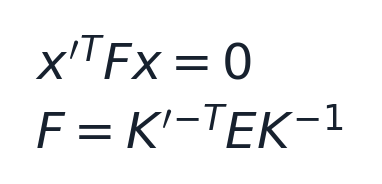
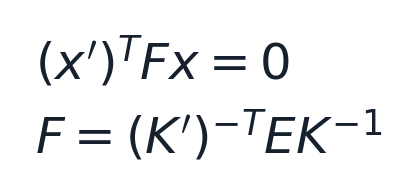
Fix study guide LaTeX compatibility and equation layout

Changed region(s): [[0.0864, 0.5435, 0.9215, 0.8152], [0.0864, 0.163, 0.6911, 0.4348]]

diff --git a/Study_Guide/CMSC_672_Exam_Study_Guide.html b/Study_Guide/CMSC_672_Exam_Study_Guide.html
@@ -390,7 +390,18 @@ blockquote p { margin: 0; }
 <p><strong>Remember — Sobel filter:</strong> It combines a small amount of smoothing with a directional derivative. This helps find edges without reacting as strongly to noise.</p>
 </blockquote>
 
-<img src="equations/display-05.png" alt="Equation: Box blur Small Gaussian approximation [1 1 1] [1 2 1] (1/9) [1 1 1] (1/16) [2 4 2] [1 1 1] [1 2 1] x-derivative / vertical edges y-derivative / horizontal edges [-1 0 1] [-1 -1 -1] [-1 0 1] [ 0 0 0] [-1 0 1] [ 1 1 1] Sobel x Sobel y [-1 0 1] [-1 -2 -1] [-2 0 2] [ 0 0 0] [-1 0 1] [ 1 2 1]" width="212">
+<p><strong>Box blur</strong></p>
+<p><img src="equations/filter-box.png" alt="Box blur kernel" width="117"></p>
+<p><strong>Small Gaussian approximation</strong></p>
+<p><img src="equations/filter-gaussian.png" alt="Small Gaussian approximation kernel" width="126"></p>
+<p><strong>x-derivative: vertical edges</strong></p>
+<p><img src="equations/filter-vertical-edges.png" alt="x-derivative: vertical edges kernel" width="118"></p>
+<p><strong>y-derivative: horizontal edges</strong></p>
+<p><img src="equations/filter-horizontal-edges.png" alt="y-derivative: horizontal edges kernel" width="152"></p>
+<p><strong>Sobel x</strong></p>
+<p><img src="equations/filter-sobel-x.png" alt="Sobel x kernel" width="118"></p>
+<p><strong>Sobel y</strong></p>
+<p><img src="equations/filter-sobel-y.png" alt="Sobel y kernel" width="152"></p>
 <p>An x derivative responds to intensity changes across the horizontal direction, so it detects <strong>vertical edges</strong>. An edge's tangent direction is perpendicular to the gradient.</p>
 <p><img src="graphics/03-sobel-edges.png" alt="Derivative filters detect changes in intensity" /></p>
 <p><em><a href="Slides/03_image-filtering-i.pdf">Lecture 3, PDF p. 116</a> — Derivative filters detect changes in intensity.</em></p>
@@ -1361,8 +1372,8 @@ blockquote p { margin: 0; }
 <p><strong>Remember — Homography versus epipolar matrix:</strong> A homography gives a matching point. An essential or fundamental matrix gives a line of possible matches.</p>
 </blockquote>
 
-<p>For normalized camera coordinates, <img src="equations/inline-ea0cd618b005.png" alt="x_hat&#x27;^T × E × x_hat = 0" width="93">. For pixel coordinates,</p>
-<img src="equations/display-41.png" alt="Equation: x&#x27;^T F x = 0 F = K&#x27;^(-T) E K^(-1)" width="153">
+<p>For normalized camera coordinates, <img src="equations/inline-ea0cd618b005.png" alt="x_hat&#x27;^T × E × x_hat = 0" width="108">. For pixel coordinates,</p>
+<img src="equations/display-41.png" alt="Equation: x&#x27;^T F x = 0 F = K&#x27;^(-T) E K^(-1)" width="168">
 <p>Then <img src="equations/inline-bdc6eb718a17.png" alt="l&#x27;=Fx" width="64"> is the corresponding line in image 2 and <img src="equations/inline-2df4381b65de.png" alt="l=F^Tx&#x27;" width="74"> is the line in image 1. A line <img src="equations/inline-7198e75af8a2.png" alt="l&#x27;=(a,b,c)^T" width="122"> contains points satisfying <img src="equations/inline-09f14c1ce06c.png" alt="au&#x27;+bv&#x27;+c=0" width="162">.</p>
 <table>
 <thead>
@@ -1416,7 +1427,7 @@ blockquote p { margin: 0; }
 <li>Build A from at least eight correspondences in a nondegenerate configuration.</li>
 <li>Solve <img src="equations/inline-f3497f64799e.png" alt="Af ≈ 0" width="62"> using SVD and reshape into a 3 × 3 estimate.</li>
 <li>Enforce rank 2 by replacing the smallest singular value of that matrix with zero.</li>
-<li>Undo coordinate normalization: if <img src="equations/inline-079d0e05a5a0.png" alt="x_n=Tx" width="74"> and <img src="equations/inline-10f8f9af2d03.png" alt="x&#x27;_n=T&#x27;x&#x27;" width="91">, then <img src="equations/inline-bae442bdfdd3.png" alt="F=T&#x27;^TF_nT" width="101">.</li>
+<li>Undo coordinate normalization: if <img src="equations/inline-079d0e05a5a0.png" alt="x_n=Tx" width="74"> and <img src="equations/inline-10f8f9af2d03.png" alt="x&#x27;_n=T&#x27;x&#x27;" width="91">, then <img src="equations/inline-bae442bdfdd3.png" alt="F=T&#x27;^TF_nT" width="117">.</li>
 <li>Use RANSAC to handle mismatches.</li>
 </ol>
 <p><strong>Why eight pairs if F has seven DoF?</strong> The linear solver treats 9 entries up to scale and uses eight linear constraints, then enforces rank 2. A different seven-point method exists; it is not the linear eight-point algorithm in the review.</p>
@@ -1757,9 +1768,9 @@ Intersection area / union area.</p>
 <p><strong>Camera center</strong><br />
 <img src="equations/inline-5ad00143c624.png" alt="PC_h=0" width="77">.</p>
 <p><strong>Epipolar constraint</strong><br />
-<img src="equations/inline-ea0cd618b005.png" alt="x_hat&#x27;^T × E × x_hat = 0" width="93">; <img src="equations/inline-4607431bba58.png" alt="x&#x27;^T × F × x = 0" width="92">.</p>
+<img src="equations/inline-ea0cd618b005.png" alt="x_hat&#x27;^T × E × x_hat = 0" width="108">; <img src="equations/inline-4607431bba58.png" alt="x&#x27;^T × F × x = 0" width="107">.</p>
 <p><strong>Intrinsics conversion</strong><br />
-<img src="equations/inline-3589a5a5f71f.png" alt="F = K&#x27;^(-T) × E × K^(-1)" width="129">.</p>
+<img src="equations/inline-3589a5a5f71f.png" alt="F = K&#x27;^(-T) × E × K^(-1)" width="144">.</p>
 <p><strong>Epipolar lines</strong><br />
 <img src="equations/inline-bdc6eb718a17.png" alt="l&#x27;=Fx" width="64">, <img src="equations/inline-2df4381b65de.png" alt="l=F^Tx&#x27;" width="74">.</p>
 <p><strong>Rectified stereo depth</strong><br />

diff --git a/Study_Guide/CMSC_672_Exam_Study_Guide.md b/Study_Guide/CMSC_672_Exam_Study_Guide.md
@@ -265,13 +265,40 @@ Correlation uses I(x+i,y+j) instead. Convolution flips the kernel in both spatia
 
 > **Remember — Sobel filter:** It combines a small amount of smoothing with a directional derivative. This helps find edges without reacting as strongly to noise.
 
+**Box blur**
+
 $$
-\mathrm{Box\ blur:}\quad\frac{1}{9}\begin{bmatrix}1&1&1\\1&1&1\\1&1&1\end{bmatrix}
-\mathrm{Gaussian:}\quad\frac{1}{16}\begin{bmatrix}1&2&1\\2&4&2\\1&2&1\end{bmatrix}
-\mathrm{Vertical\ edges:}\quad\begin{bmatrix}-1&0&1\\-1&0&1\\-1&0&1\end{bmatrix}
-\mathrm{Horizontal\ edges:}\quad\begin{bmatrix}-1&-1&-1\\0&0&0\\1&1&1\end{bmatrix}
-\mathrm{Sobel}\ x:\quad\begin{bmatrix}-1&0&1\\-2&0&2\\-1&0&1\end{bmatrix}
-\mathrm{Sobel}\ y:\quad\begin{bmatrix}-1&-2&-1\\0&0&0\\1&2&1\end{bmatrix}
+\frac{1}{9}\begin{bmatrix}1&1&1\\ 1&1&1\\ 1&1&1\end{bmatrix}
+$$
+
+**Small Gaussian approximation**
+
+$$
+\frac{1}{16}\begin{bmatrix}1&2&1\\ 2&4&2\\ 1&2&1\end{bmatrix}
+$$
+
+**x-derivative: vertical edges**
+
+$$
+\begin{bmatrix}-1&0&1\\ -1&0&1\\ -1&0&1\end{bmatrix}
+$$
+
+**y-derivative: horizontal edges**
+
+$$
+\begin{bmatrix}-1&-1&-1\\ 0&0&0\\ 1&1&1\end{bmatrix}
+$$
+
+**Sobel x**
+
+$$
+\begin{bmatrix}-1&0&1\\ -2&0&2\\ -1&0&1\end{bmatrix}
+$$
+
+**Sobel y**
+
+$$
+\begin{bmatrix}-1&-2&-1\\ 0&0&0\\ 1&2&1\end{bmatrix}
 $$
 
 An x derivative responds to intensity changes across the horizontal direction, so it detects **vertical edges**. An edge's tangent direction is perpendicular to the gradient.
@@ -295,7 +322,7 @@ Nearby pixels receive larger weights. Increasing $\sigma$ increases blur and rem
 **Worked patch:** For
 
 $$
-\begin{bmatrix}0&0&0\\0&90&0\\0&0&0\end{bmatrix}
+\begin{bmatrix}0&0&0\\ 0&90&0\\ 0&0&0\end{bmatrix}
 $$
 
 the box-filter output at the center is 10. The Gaussian approximation above gives $4(90)/16=22.5$, because it gives more weight to the center.
@@ -468,11 +495,11 @@ For small shifts, $I(x+u,y+v)\approx I(x,y)+I_xu+I_yv$. Therefore
 
 $$
 E(u,v)\approx\sum w(I_xu+I_yv)^2
-=\begin{bmatrix}u&v\end{bmatrix}M\begin{bmatrix}u\\v\end{bmatrix},
+=\begin{bmatrix}u&v\end{bmatrix}M\begin{bmatrix}u\\ v\end{bmatrix},
 $$
 
 $$
-M=\sum w\begin{bmatrix}I_x^2&I_xI_y\\I_xI_y&I_y^2\end{bmatrix}.
+M=\sum w\begin{bmatrix}I_x^2&I_xI_y\\ I_xI_y&I_y^2\end{bmatrix}.
 $$
 
 M is the second-moment/structure matrix. Do not substitute the image Hessian of second derivatives for it.
@@ -990,13 +1017,13 @@ Translation cannot be represented by a 2 × 2 linear matrix acting on (x,y) beca
 > **Remember — Rotate around a point:** Move that point to the origin, rotate, then move it back.
 
 $$
-T(t_x,t_y)=\begin{bmatrix}1&0&t_x\\0&1&t_y\\0&0&1\end{bmatrix},\quad
-S(s_x,s_y)=\begin{bmatrix}s_x&0&0\\0&s_y&0\\0&0&1\end{bmatrix},
+T(t_x,t_y)=\begin{bmatrix}1&0&t_x\\ 0&1&t_y\\ 0&0&1\end{bmatrix},\quad
+S(s_x,s_y)=\begin{bmatrix}s_x&0&0\\ 0&s_y&0\\ 0&0&1\end{bmatrix},
 $$
 
 $$
-R(\theta)=\begin{bmatrix}\cos\theta&-\sin\theta&0\\\sin\theta&\cos\theta&0\\0&0&1\end{bmatrix},\quad
-\mathrm{Shear}_x(a)=\begin{bmatrix}1&a&0\\0&1&0\\0&0&1\end{bmatrix}.
+R(\theta)=\begin{bmatrix}\cos\theta&-\sin\theta&0\\ \sin\theta&\cos\theta&0\\ 0&0&1\end{bmatrix},\quad
+\mathrm{Shear}_x(a)=\begin{bmatrix}1&a&0\\ 0&1&0\\ 0&0&1\end{bmatrix}.
 $$
 
 The rotation above is counterclockwise in mathematical coordinates with y increasing upward. Displayed image coordinates often increase downward, which changes the visual interpretation of the sign.
@@ -1071,7 +1098,7 @@ The denominator is essential. A 3 × 3 matrix has 9 entries but overall scale is
 For row-major $h=(h_{11},h_{12},h_{13},h_{21},h_{22},h_{23},h_{31},h_{32},h_{33})^T$, each pair contributes two DLT rows:
 
 $$
-\begin{bmatrix}x&y&1&0&0&0&-ux&-uy&-u\\0&0&0&x&y&1&-vx&-vy&-v\end{bmatrix}
+\begin{bmatrix}x&y&1&0&0&0&-ux&-uy&-u\\ 0&0&0&x&y&1&-vx&-vy&-v\end{bmatrix}
 $$
 
 Stack rows into A, solve $Ah\approx0$ with SVD and a norm constraint, and reshape h into H. Coordinate normalization improves conditioning. The map is rational in point coordinates, but cross-multiplication gives equations linear in the entries of H.
@@ -1144,7 +1171,7 @@ $$
 In Cartesian 3D coordinates, $X_c=R(X_w-C)=RX_w+t$. The intrinsic matrix is commonly
 
 $$
-K=\begin{bmatrix}f_x&s&c_x\\0&f_y&c_y\\0&0&1\end{bmatrix}.
+K=\begin{bmatrix}f_x&s&c_x\\ 0&f_y&c_y\\ 0&0&1\end{bmatrix}.
 $$
 
 - **Extrinsics:** R,t locate and orient the camera relative to a world frame. R is 3 × 3 and has 3 rotational DoF; t is 3 × 1.
@@ -1236,10 +1263,10 @@ The corresponding point in the second image must lie on the epipolar line. This 
 
 > **Remember — Homography versus epipolar matrix:** A homography gives a matching point. An essential or fundamental matrix gives a line of possible matches.
 
-For normalized camera coordinates, $\hat x'^TE\hat x=0$. For pixel coordinates,
+For normalized camera coordinates, $(\hat{x}')^TE\hat x=0$. For pixel coordinates,
 
 $$
-x'^TFx=0,\qquad F=K'^{-T}EK^{-1}.
+(x')^TFx=0,\qquad F=(K')^{-T}EK^{-1}.
 $$
 
 Then $l'=Fx$ is the corresponding line in image 2 and $l=F^Tx'$ is the line in image 1. A line $l'=(a,b,c)^T$ contains points satisfying $au'+bv'+c=0$.
@@ -1273,7 +1300,7 @@ $$
 2. Build A from at least eight correspondences in a nondegenerate configuration.
 3. Solve $Af\approx0$ using SVD and reshape into a 3 × 3 estimate.
 4. Enforce rank 2 by replacing the smallest singular value of that matrix with zero.
-5. Undo coordinate normalization: if $x_n=Tx$ and $x'_n=T'x'$, then $F=T'^TF_nT$.
+5. Undo coordinate normalization: if $x_n=Tx$ and $x'_n=T'x'$, then $F=(T')^TF_nT$.
 6. Use RANSAC to handle mismatches.
 
 **Why eight pairs if F has seven DoF?** The linear solver treats 9 entries up to scale and uses eight linear constraints, then enforces rank 2. A different seven-point method exists; it is not the linear eight-point algorithm in the review.
@@ -1423,15 +1450,15 @@ There is one equation for two unknowns. Along a straight edge, motion parallel t
 Assume neighboring pixels have the same displacement (u,v). Stack their equations:
 
 $$
-A\begin{bmatrix}u\\v\end{bmatrix}=b,\qquad
-A=\begin{bmatrix}I_x(p_1)&I_y(p_1)\\\vdots&\vdots\\I_x(p_n)&I_y(p_n)\end{bmatrix},\quad
-b=-\begin{bmatrix}I_t(p_1)\\\vdots\\I_t(p_n)\end{bmatrix}.
+A\begin{bmatrix}u\\ v\end{bmatrix}=b,\qquad
+A=\begin{bmatrix}I_x(p_1)&I_y(p_1)\\ \vdots&\vdots\\ I_x(p_n)&I_y(p_n)\end{bmatrix},\quad
+b=-\begin{bmatrix}I_t(p_1)\\ \vdots\\ I_t(p_n)\end{bmatrix}.
 $$
 
 Then solve least squares. The normal matrix is
 
 $$
-A^TA=\begin{bmatrix}\sum I_x^2&\sum I_xI_y\\\sum I_xI_y&\sum I_y^2\end{bmatrix}.
+A^TA=\begin{bmatrix}\sum I_x^2&\sum I_xI_y\\ \sum I_xI_y&\sum I_y^2\end{bmatrix}.
 $$
 
 ![Neighboring brightness-constancy constraints form a least-squares motion estimate](graphics/17-optical-flow.png)
@@ -1642,10 +1669,10 @@ $x\sim K[R\mid t]X$, t = -RC.
 $PC_h=0$.
 
 **Epipolar constraint**  
-$\hat x'^TE\hat x=0$; $x'^TFx=0$.
+$(\hat{x}')^TE\hat x=0$; $(x')^TFx=0$.
 
 **Intrinsics conversion**  
-$F=K'^{-T}EK^{-1}$.
+$F=(K')^{-T}EK^{-1}$.
 
 **Epipolar lines**  
 $l'=Fx$, $l=F^Tx'$.
@@ -1725,7 +1752,7 @@ These are derived study explanations, **not an instructor-provided solution key*
 2. The diagram translates by $t_x=2,t_y=1$. With homogeneous column vectors:
 
 $$
-\begin{bmatrix}x'\\y'\\1\end{bmatrix}=\begin{bmatrix}1&0&2\\0&1&1\\0&0&1\end{bmatrix}\begin{bmatrix}x\\y\\1\end{bmatrix}.
+\begin{bmatrix}x'\\ y'\\ 1\end{bmatrix}=\begin{bmatrix}1&0&2\\ 0&1&1\\ 0&0&1\end{bmatrix}\begin{bmatrix}x\\ y\\ 1\end{bmatrix}.
 $$
 
 ## Self-test: try before reading the answers
@@ -1778,7 +1805,7 @@ These are new practice questions, not predictions or copied exam questions.
 15. Conv output 24 × 24 × 8; parameters $(5\cdot5\cdot3+1)8=608$. Pool output 12 × 12 × 8 with zero additional parameters.
 16. Fast shares full-image convolutional features; Faster replaces external proposals with an RPN. NMS removes highly overlapping lower-score duplicate candidates within a class.
 17. Union  = 100+120-60 = 160; IoU $=60/160=0.375$. Under standard one-to-one matching, a duplicate detection of an already matched ground-truth instance is FP.
-18. $TS=\begin{bmatrix}2&0&3\\0&2&-1\\0&0&1\end{bmatrix}$; output (5,3).
+18. $TS=\begin{bmatrix}2&0&3\\ 0&2&-1\\ 0&0&1\end{bmatrix}$; output (5,3).
 19. Each homography pair provides two independent constraints; each epipolar pair provides one. Collinear homography data are degenerate and do not determine a general planar map.
 20. K describes internal pixel projection; R,t transform world coordinates to camera coordinates; P is 3 × 4; t = -RC.
 21. Depth is unknown, so the corresponding ray projects to a line in the other view. Rectification aligns those lines with rows.
